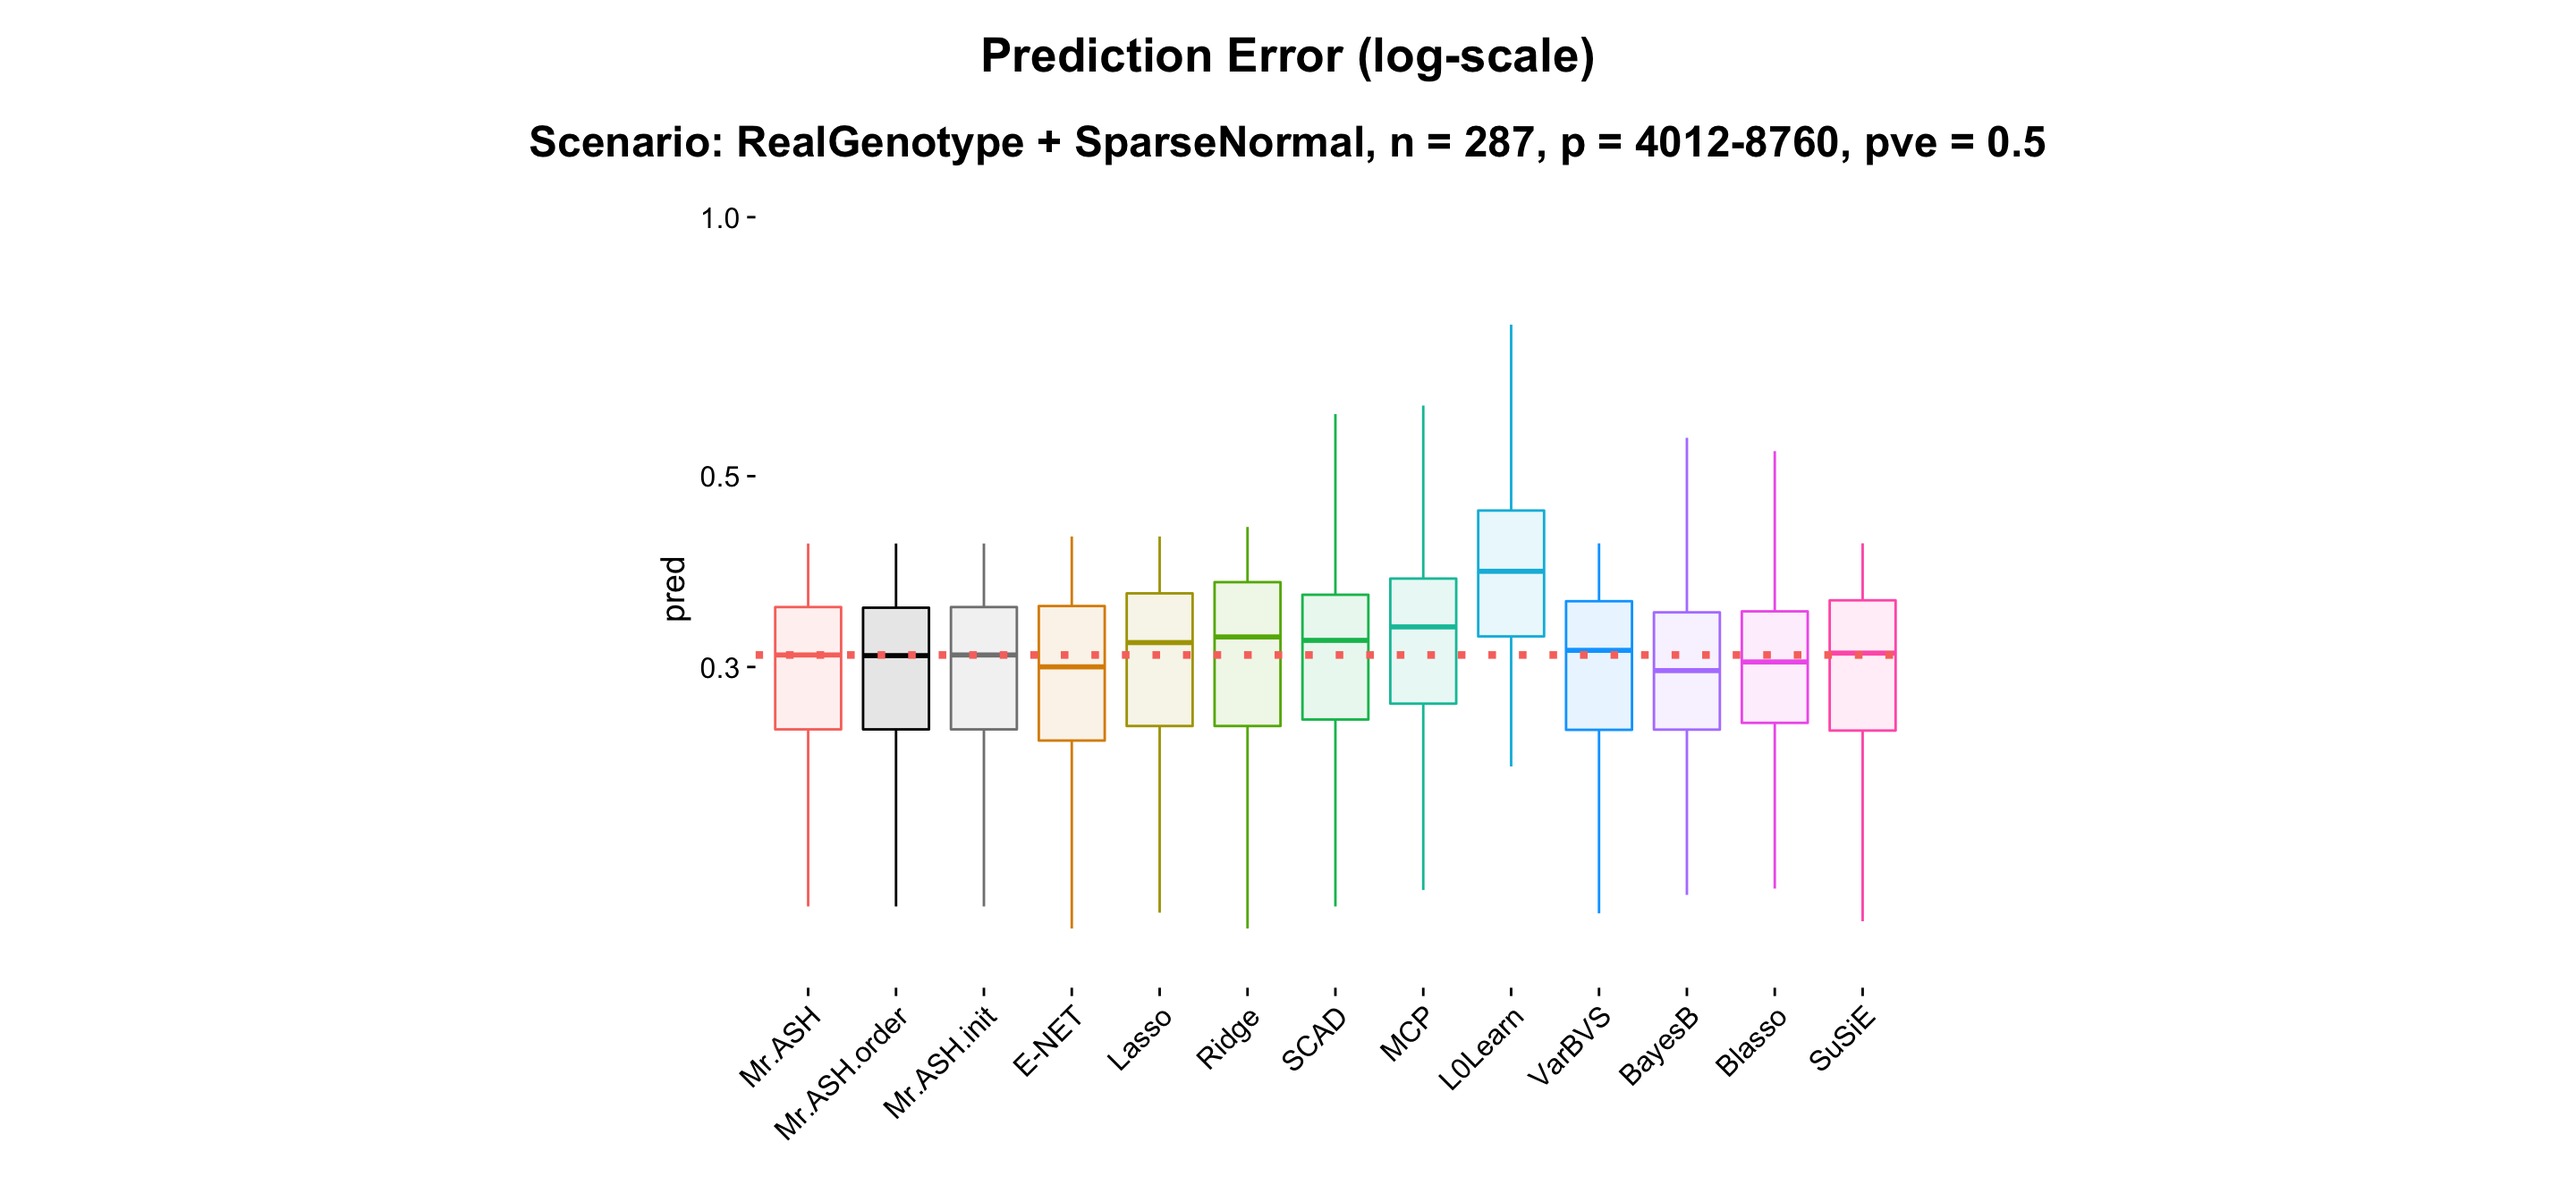
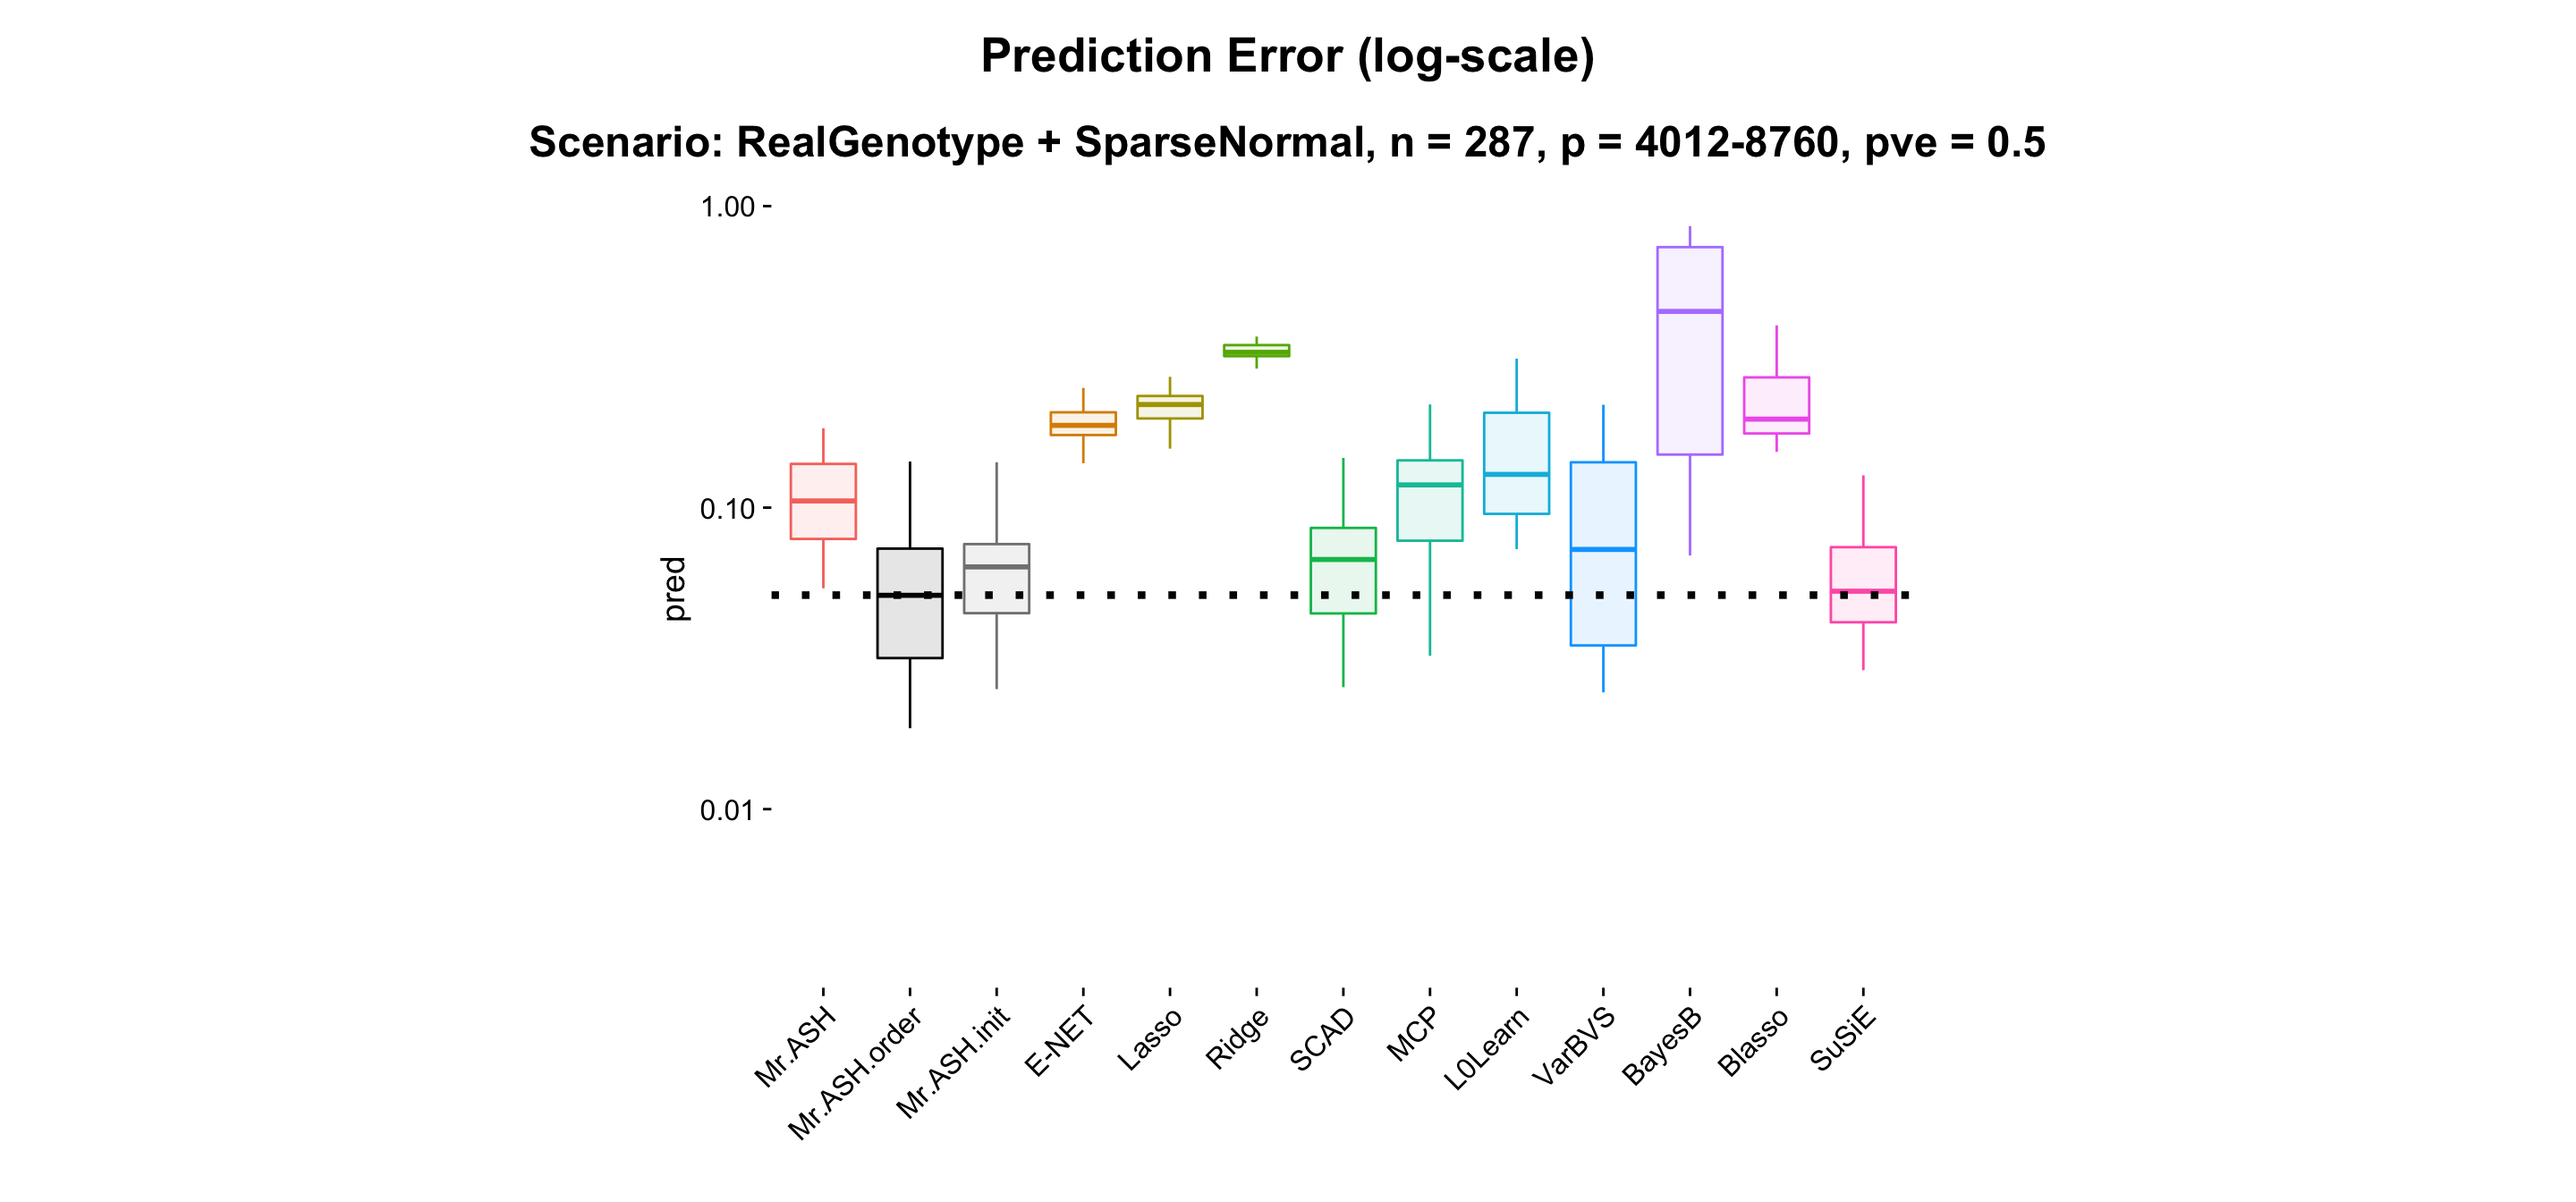
Build site.

diff --git a/docs/Result9_Changepoint.html b/docs/Result9_Changepoint.html
@@ -406,7 +406,7 @@ div.section {
 <div class="tab-content">
 <div id="summary" class="tab-pane fade in active">
 <p>
-<strong>Last updated:</strong> 2019-10-21
+<strong>Last updated:</strong> 2019-10-22
 </p>
 <p>
 <strong>Checks:</strong> <span class="glyphicon glyphicon-ok text-success" aria-hidden="true"></span> 7 <span class="glyphicon glyphicon-exclamation-sign text-danger" aria-hidden="true"></span> 0
@@ -497,10 +497,10 @@ This reproducible <a href="http://rmarkdown.rstudio.com">R Markdown</a> analysis
 <div class="panel panel-default">
 <div class="panel-heading">
 <p class="panel-title">
-<a data-toggle="collapse" data-parent="#workflowr-checks" href="#strongRepositoryversionstrongahrefhttpsgithubcomstephenslabmrashworkflowtree506cf214cf386d7341133d796d8a5ab6825e6455targetblank506cf21a"> <span class="glyphicon glyphicon-ok text-success" aria-hidden="true"></span> <strong>Repository version:</strong> <a href="https://github.com/stephenslab/mr-ash-workflow/tree/506cf214cf386d7341133d796d8a5ab6825e6455" target="_blank">506cf21</a> </a>
+<a data-toggle="collapse" data-parent="#workflowr-checks" href="#strongRepositoryversionstrongahrefhttpsgithubcomstephenslabmrashworkflowtree19e91e7ce571da71e960e30da9b3d0c296eacbc1targetblank19e91e7a"> <span class="glyphicon glyphicon-ok text-success" aria-hidden="true"></span> <strong>Repository version:</strong> <a href="https://github.com/stephenslab/mr-ash-workflow/tree/19e91e7ce571da71e960e30da9b3d0c296eacbc1" target="_blank">19e91e7</a> </a>
 </p>
 </div>
[2 lines of base64/hex data omitted]
 <div class="panel-body">
 <p>
 Great! You are using Git for version control. Tracking code development and connecting the code version to the results is critical for reproducibility. The version displayed above was the version of the Git repository at the time these results were generated. <br><br> Note that you need to be careful to ensure that all relevant files for the analysis have been committed to Git prior to generating the results (you can use <code>wflow_publish</code> or <code>wflow_git_commit</code>). workflowr only checks the R Markdown file, but you know if there are other scripts or data files that it depends on. Below is the status of the Git repository when the results were generated:
@@ -509,18 +509,27 @@ Great! You are using Git for version control. Tracking code development and conn
 Ignored files:
     Ignored:    .Rhistory
     Ignored:    .Rproj.user/
+    Ignored:    ETA_1_lambda.dat
+    Ignored:    ETA_1_parBayesB.dat
     Ignored:    analysis/ETA_1_lambda.dat
     Ignored:    analysis/ETA_1_parBayesB.dat
     Ignored:    analysis/mu.dat
     Ignored:    analysis/varE.dat
+    Ignored:    mu.dat
+    Ignored:    varE.dat
 
 Untracked files:
     Untracked:  .DS_Store
     Untracked:  .Rapp.history
-    Untracked:  results/estsigma.RDS
 
 Unstaged changes:
+    Modified:   analysis/Result15_EstimationOfSigma.Rmd
+    Modified:   analysis/Result1_Ridge.Rmd
     Modified:   analysis/index.Rmd
+    Modified:   code/method_wrapper.R
+    Modified:   results/changepoint2.RDS
+    Deleted:    results/changepoint3.RDS
+    Deleted:    results/changepoint4.RDS
 
 </code></pre>
 <p>
@@ -559,6 +568,40 @@ Message
 </tr>
 </thead>
 <tbody>
+<tr>
+<td>
+Rmd
+</td>
+<td>
+<a href="https://github.com/stephenslab/mr-ash-workflow/blob/19e91e7ce571da71e960e30da9b3d0c296eacbc1/analysis/Result9_Changepoint.Rmd" target="_blank">19e91e7</a>
+</td>
+<td>
+Youngseok
+</td>
+<td>
+2019-10-22
+</td>
+<td>
+wflow_publish(“analysis/Result9_Changepoint.Rmd”)
+</td>
+</tr>
+<tr>
+<td>
+html
+</td>
+<td>
+<a href="https://rawcdn.githack.com/stephenslab/mr-ash-workflow/7d6c1c84c7b26eff99781c65464cfcea54102022/docs/Result9_Changepoint.html" target="_blank">7d6c1c8</a>
+</td>
+<td>
+Youngseok
+</td>
+<td>
+2019-10-22
+</td>
+<td>
+Build site.
+</td>
+</tr>
 <tr>
 <td>
 Rmd
@@ -631,9 +674,46 @@ subtitle  = ggdraw() + draw_label(&quot;Scenario: RealGenotype + SparseNormal, n
 fig       = plot_grid(title,subtitle,fig_main, ncol = 1, rel_heights = c(0.1,0.06,0.95))
 fig</code></pre>
 <p><img src="figure/Result9_Changepoint.Rmd/fig1-1.png" width="1440" style="display: block; margin: auto;" /></p>
-<pre class="r"><code>res_df       = readRDS(&quot;results/changepoint4.RDS&quot;)
+<p>
+<button type="button" class="btn btn-default btn-xs btn-workflowr btn-workflowr-fig" data-toggle="collapse" data-target="#fig-fig1-1">
+Past versions of fig1-1.png
+</button>
+</p>
+<div id="fig-fig1-1" class="collapse">
+<div class="table-responsive">
+<table class="table table-condensed table-hover">
+<thead>
+<tr>
+<th>
+Version
+</th>
+<th>
+Author
+</th>
+<th>
+Date
+</th>
+</tr>
+</thead>
+<tbody>
+<tr>
+<td>
+<a href="https://github.com/stephenslab/mr-ash-workflow/blob/7d6c1c84c7b26eff99781c65464cfcea54102022/docs/figure/Result9_Changepoint.Rmd/fig1-1.png" target="_blank">7d6c1c8</a>
+</td>
+<td>
+Youngseok
+</td>
+<td>
+2019-10-22
+</td>
+</tr>
+</tbody>
+</table>
+</div>
+</div>
+<pre class="r"><code>res_df       = readRDS(&quot;results/changepoint2.RDS&quot;)
 sdat         = data.frame()
-for (i in 1:10) {
+for (i in 1:1) {
   sdat = rbind(sdat, res_df[[i]])
 }
 method_list  = c(&quot;Mr.ASH&quot;,&quot;VarBVS&quot;,&quot;BayesB&quot;,&quot;Blasso&quot;,&quot;SuSiE&quot;,&quot;E-NET&quot;,&quot;Lasso&quot;,&quot;Ridge&quot;,&quot;SCAD&quot;,&quot;MCP&quot;,&quot;L0Learn&quot;,
@@ -650,18 +730,53 @@ p1 = my.box(sdat, &quot;fit&quot;, &quot;pred&quot;) +
   theme(axis.line    = element_blank(),
         axis.text.x  = element_text(angle = 45,hjust = 1),
         legend.position = &quot;none&quot;) +
-  geom_hline(yintercept = median(sdat$pred[sdat$fit == &quot;Mr.ASH&quot;]), col = gg_color_hue(11)[1],
+  geom_hline(yintercept = median(sdat$pred[sdat$fit == &quot;Mr.ASH.order&quot;]), col = &quot;grey1&quot;,
              linetype = &quot;dotted&quot;, size = 1.5) +
-  scale_y_continuous(trans = &quot;log10&quot;)</code></pre>
-<pre><code>Scale for &#39;fill&#39; is already present. Adding another scale for &#39;fill&#39;,
-which will replace the existing scale.</code></pre>
-<pre class="r"><code>p0        = ggplot() + geom_blank() + theme_cowplot() + theme(axis.line = element_blank())
+  scale_y_continuous(trans = &quot;log10&quot;)
+p0        = ggplot() + geom_blank() + theme_cowplot() + theme(axis.line = element_blank())
 fig_main  = plot_grid(p0,p1,p0, nrow = 1, rel_widths = c(0.3,0.6,0.3))
 title     = ggdraw() + draw_label(&quot;Prediction Error (log-scale)&quot;, fontface = &#39;bold&#39;, size = 20) 
 subtitle  = ggdraw() + draw_label(&quot;Scenario: RealGenotype + SparseNormal, n = 287, p = 4012-8760, pve = 0.5&quot;, fontface  = &#39;bold&#39;, size = 18) 
 fig       = plot_grid(title,subtitle,fig_main, ncol = 1, rel_heights = c(0.1,0.06,0.95))
 fig</code></pre>
 <p><img src="figure/Result9_Changepoint.Rmd/fig2-1.png" width="1440" style="display: block; margin: auto;" /></p>
+<p>
+<button type="button" class="btn btn-default btn-xs btn-workflowr btn-workflowr-fig" data-toggle="collapse" data-target="#fig-fig2-1">
+Past versions of fig2-1.png
+</button>
+</p>
+<div id="fig-fig2-1" class="collapse">
+<div class="table-responsive">
+<table class="table table-condensed table-hover">
+<thead>
+<tr>
+<th>
+Version
+</th>
+<th>
+Author
+</th>
+<th>
+Date
+</th>
+</tr>
+</thead>
+<tbody>
+<tr>
+<td>
+<a href="https://github.com/stephenslab/mr-ash-workflow/blob/7d6c1c84c7b26eff99781c65464cfcea54102022/docs/figure/Result9_Changepoint.Rmd/fig2-1.png" target="_blank">7d6c1c8</a>
+</td>
+<td>
+Youngseok
+</td>
+<td>
+2019-10-22
+</td>
+</tr>
+</tbody>
+</table>
+</div>
+</div>
 <pre class="r"><code>library(Matrix); library(ggplot2); library(cowplot); library(susieR); library(BGLR);
 library(glmnet); library(mr.ash); library(ncvreg); library(L0Learn); library(varbvs);
 standardize = FALSE
@@ -731,15 +846,15 @@ pred         = matrix(0, iter_num, method_num);
 colnames(pred) = c(&quot;mr.ash&quot;, method_list,&quot;mr.ash.order&quot;,&quot;mr.ash.init&quot;)
 time         = matrix(0, iter_num, method_num);
 colnames(time) = c(&quot;mr.ash&quot;, method_list,&quot;mr.ash.order&quot;,&quot;mr.ash.init&quot;)
-
-for (iter in 1:1) {
 n            = 1000 # must be even
 p            = n-1
+
+for (iter in 1:1) {
 for (i in 1:20) {
   beta          = double(p)
   beta[n/2]     = 1
   data          = simulate_data(n = n, seed = i, beta = beta,
-                                design = &quot;changepoint&quot;, filepath = filelist[i], snr = 1)
+                                design = &quot;changepoint&quot;, snr = 1)
   
   for (j in 1:length(method_list)) {
     fit.method    = get(paste(&quot;fit.&quot;,method_list[j],sep = &quot;&quot;))
@@ -761,13 +876,13 @@ for (i in 1:20) {
 
   fit         = fit.mr.ash2(data$X, data$y, data$X.test, data$y.test, seed = i,
                             update.order = lasso.path.order,
-                            sa2 = (2^((0:19) / 5) - 1)^2)
+                            sa2 = (2^((0:19) / 10) - 1)^2)
   pred[i,j+2] = fit$rsse / data$sigma / sqrt(n)
   time[i,j+2] = fit$t + lasso.time[2]
   
   fit         = fit.mr.ash2(data$X, data$y, data$X.test, data$y.test, seed = i,
                             beta.init = lasso.beta,
-                            sa2 = (2^((0:19) / 5) - 1)^2)
+                            sa2 = (2^((0:19) / 10) - 1)^2)
   pred[i,j+3] = fit$rsse / data$sigma / sqrt(n)
   time[i,j+3] = fit$t + lasso.time[1]
   
